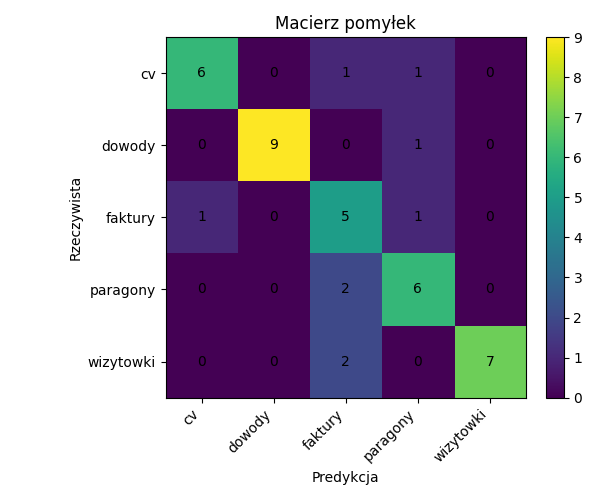
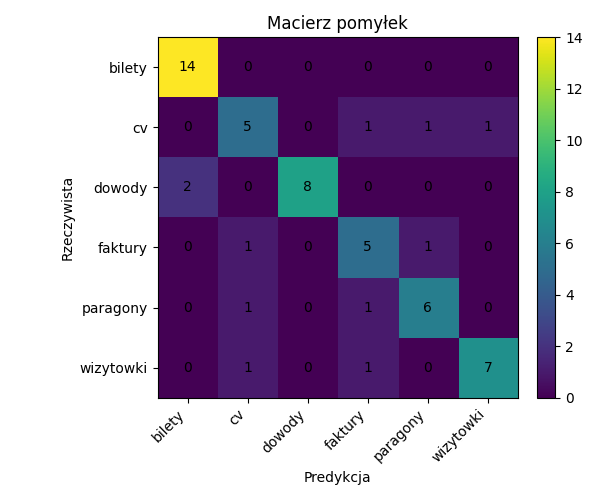
Dodanie odczytywania biletow

diff --git a/Kod/ui.py b/Kod/ui.py
@@ -3,7 +3,7 @@ from pathlib import Path
 import tkinter as tk
 from tkinter import ttk, filedialog, messagebox
 from PIL import Image, ImageTk
-from ocr import ocr_tekst_z_obrazu
+from ocr import ocr_tekst_z_obrazu, ocr_tekst_z_biletu
 import tempfile
 import traceback
 
@@ -284,12 +284,14 @@ class AplikacjaOCR(tk.Tk):
             self.lbl_wynik.config(text=f"Rozpoznano jako: {nazwa.upper()}")
             self._ustaw_status(f"Wynik: {nazwa}")
 
-            # ---------------------------------------------
-            #    O C R   J E Ś L I   T O   D O W Ó D
-            # ---------------------------------------------
-            if nazwa.lower() == "dowody":
-                self._ustaw_status("Wykryto dowód osobisty — uruchamianie OCR...")
-                tekst = ocr_tekst_z_obrazu(self.obraz_testowy_path)
+            #ocr jeśli to dowód
+            if nazwa.lower() in ["dowody", "bilety"]:
+                self._ustaw_status(f"Wykryto dokument typu: {nazwa} — uruchamianie OCR...")
+
+                if nazwa.lower() == "bilety":
+                    tekst = ocr_tekst_z_biletu(self.obraz_testowy_path)
+                else:
+                    tekst = ocr_tekst_z_obrazu(self.obraz_testowy_path)
 
                 if not tekst.strip():
                     messagebox.showinfo("OCR", "Nie udało się wyodrębnić tekstu z obrazu.")
@@ -302,9 +304,7 @@ class AplikacjaOCR(tk.Tk):
                 )
 
                 if decyzja:
-                    # -------------------------------
                     # 1) Próba zapisu do folderu "odczytane" w projekcie
-                    # -------------------------------
                     try:
                         F_ODCZYTANE.mkdir(parents=True, exist_ok=True)
 
@@ -316,9 +316,7 @@ class AplikacjaOCR(tk.Tk):
                         messagebox.showinfo("OCR", f"Zapisano do pliku:\n{out}")
 
                     except PermissionError:
-                        # -------------------------------
-                        # 2) Fallback — zapis do Dokumentów użytkownika
-                        # -------------------------------
+                        # 2) zapis do Dokumentów użytkownika
                         fallback_dir = Path.home() / "Documents" / "odczytane"
                         try:
                             fallback_dir.mkdir(parents=True, exist_ok=True)
@@ -332,9 +330,7 @@ class AplikacjaOCR(tk.Tk):
                             messagebox.showinfo("OCR", f"Zapisano do pliku:\n{out2}")
 
                         except Exception as e2:
-                            # -------------------------------
                             # 3) Nie udało się zapisać nigdzie
-                            # -------------------------------
                             messagebox.showerror(
                                 "OCR - błąd zapisu",
                                 f"Nie udało się zapisać pliku OCR:\n{e2}"

diff --git a/Kod/ocr.py b/Kod/ocr.py
@@ -16,3 +16,27 @@ def ocr_tekst_z_obrazu(sciezka: Path) -> str:
 
     tekst = pytesseract.image_to_string(img, lang="pol", config=config)
     return tekst.strip()
+
+def ocr_tekst_z_biletu(sciezka: Path) -> str:
+    img = Image.open(sciezka).convert("L")
+
+    # powiększenie obrazu poprawia OCR
+    img = img.resize((img.width * 2, img.height * 2))
+
+    # OCR próbujemy dla kilku obrotów, bo bilety często są bokiem
+    najlepszy_tekst = ""
+
+    for kat in [0, 90, 180, 270]:
+        obrocony = img.rotate(kat, expand=True)
+
+        config = (
+            "--oem 3 " # domyślny silnik
+            "--psm 6 "
+        )
+
+        tekst = pytesseract.image_to_string(obrocony, lang="pol", config=config).strip()
+
+        if len(tekst) > len(najlepszy_tekst):
+            najlepszy_tekst = tekst
+
+    return najlepszy_tekst
